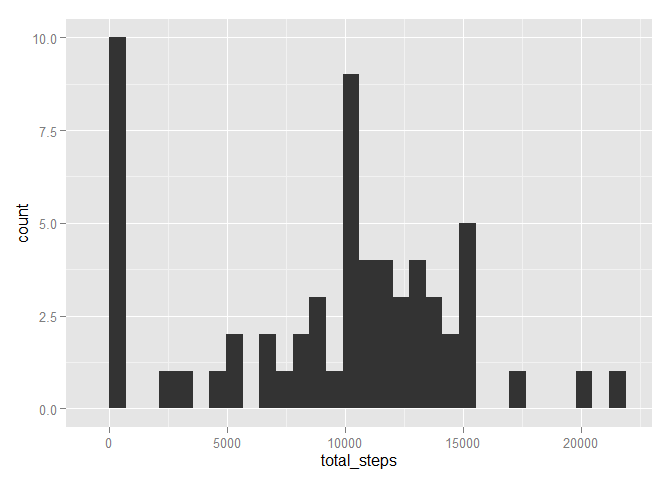
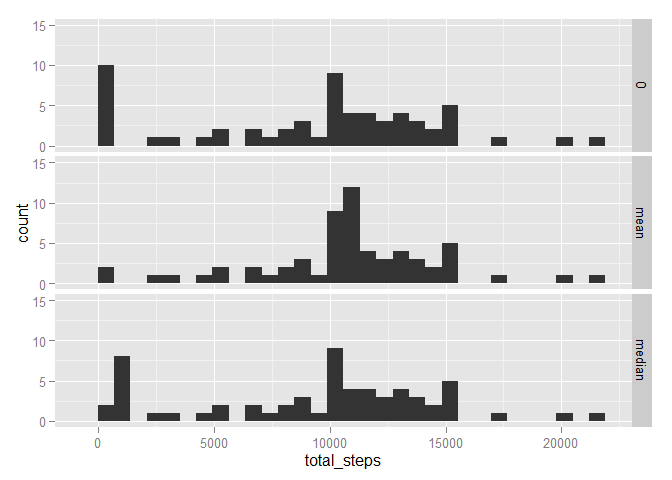
Document revisions
Extended the variety of approaches used to determine how to impute
values.

diff --git a/PA1_template.html b/PA1_template.html
@@ -72,9 +72,9 @@ library(dplyr)</code></pre>
 <pre><code>## 
 ## Attaching package: 'dplyr'
 ## 
-## The following object is masked from 'package:stats':
+## The following objects are masked from 'package:stats':
 ## 
-##     filter
+##     filter, lag
 ## 
 ## The following objects are masked from 'package:base':
 ## 
@@ -115,19 +115,55 @@ rows_with_nas</code></pre>
 <pre class="r"><code>missing_steps &lt;- sum(is.na(raw$steps))
 missing_steps</code></pre>
 <pre><code>## [1] 2304</code></pre>
-<p>There are 2304 NAs in the data and 100% of them occur in the steps column. My strategy to replace missing values is to write a zero in for every missing value.</p>
-<pre class="r"><code>noNAs &lt;- raw
+<p>There are 2304 NAs in the data and 100% of them occur in the steps column. In order to achieve the best imputation, I will trial three different approaches. The first approach will impute 0s for all NAs. The second approach will impute the interval mean. The third approach will impute the interval median. I will compare results from the three approaches to see which is best.</p>
+<pre class="r"><code>#first approach - just write a 0
+noNAs &lt;- raw
 missing_cases &lt;- which(is.na(noNAs$steps))
 noNAs[missing_cases,&quot;steps&quot;] &lt;- 0
-nby_date &lt;- group_by(noNAs,date)
+noNAs_0 &lt;- noNAs
+noNAs_0$method &lt;- 1
+
+#second approach - use the mean for that interval
+noNAs &lt;- raw
+missing_cases &lt;- which(is.na(noNAs$steps))
+x &lt;- NULL
+for (i in 1:length(missing_cases)){y &lt;- mean(raw[raw$interval == raw[missing_cases[i],&quot;interval&quot;], &quot;steps&quot;], na.rm = TRUE); x &lt;- c(x,y)}
+missing_cases &lt;- data.frame(cbind(missing_cases,x))
+names(missing_cases) &lt;- c(&quot;row&quot;,&quot;steps&quot;)
+noNAs[missing_cases$row,&quot;steps&quot;] &lt;- missing_cases$steps
+noNAs_mean &lt;- noNAs
+noNAs_mean$method &lt;- 2
+
+#third approach - use the median for that interval
+noNAs &lt;- raw
+missing_cases &lt;- which(is.na(noNAs$steps))
+x &lt;- NULL
+for (i in 1:length(missing_cases)){y &lt;- median(raw[raw$interval == raw[missing_cases[i],&quot;interval&quot;], &quot;steps&quot;], na.rm = TRUE); x &lt;- c(x,y)}
+missing_cases &lt;- data.frame(cbind(missing_cases,x))
+names(missing_cases) &lt;- c(&quot;row&quot;,&quot;steps&quot;)
+noNAs[missing_cases$row,&quot;steps&quot;] &lt;- missing_cases$steps
+noNAs_median &lt;- noNAs
+noNAs_median$method &lt;- 3
+
+noNAs &lt;-rbind(noNAs_0, noNAs_mean, noNAs_median)
+noNAs$method &lt;- as.factor(noNAs$method)
+levels(noNAs$method) &lt;- c(&quot;0&quot;, &quot;mean&quot;, &quot;median&quot;)
+
+nby_date &lt;- group_by(noNAs,date, method)
 nsteps_by_day &lt;- summarize(nby_date,total_steps = sum(steps))
-ggplot(nsteps_by_day, aes(total_steps)) + geom_histogram()</code></pre>
[1 lines of base64/hex data omitted]
-<pre class="r"><code>mean(nsteps_by_day$total_steps)</code></pre>
-<pre><code>## [1] 9354.23</code></pre>
-<pre class="r"><code>median(nsteps_by_day$total_steps)</code></pre>
-<pre><code>## [1] 10395</code></pre>
-<p>The impact of imputing zeros into the data set cause both the mean and the median to decline in value. Also, the mean became lower than the median, indicating the the data is left skewed.</p>
+ggplot(nsteps_by_day, aes(total_steps)) + geom_histogram() + ylim(0,15) + facet_grid(method~.)</code></pre>
[1 lines of base64/hex data omitted]
+<pre class="r"><code>m1 &lt;- mean(nsteps_by_day[nsteps_by_day$method == &quot;0&quot;,]$total_steps)
+m2 &lt;- mean(nsteps_by_day[nsteps_by_day$method == &quot;mean&quot;,]$total_steps)
+m3 &lt;- mean(nsteps_by_day[nsteps_by_day$method == &quot;median&quot;,]$total_steps)
+n1 &lt;- median(nsteps_by_day[nsteps_by_day$method == &quot;0&quot;,]$total_steps)
+n2 &lt;- median(nsteps_by_day[nsteps_by_day$method == &quot;mean&quot;,]$total_steps)
+n3 &lt;- median(nsteps_by_day[nsteps_by_day$method == &quot;median&quot;,]$total_steps)
+data.frame(zero = c(m1, n1), mean = c(m2, n2), median = c(m3, n3), row.names = c(&quot;mean&quot;, &quot;median&quot;))</code></pre>
+<pre><code>##            zero     mean    median
+## mean    9354.23 10766.19  9503.869
+## median 10395.00 10766.19 10395.000</code></pre>
+<p>The effect of using the three different approaches is to cause the NAs to have different imputed values. The approach using zero gives the lowest steps per day, then approach using median gives the second lowest steps per day and the approach using mean gives the highest steps per day. Based on this, I suspect that using the median to impute values may yield the best results.</p>
 </div>
 <div id="are-there-differences-in-activity-patterns-between-weekdays-and-weekends" class="section level2">
 <h2>Are there differences in activity patterns between weekdays and weekends?</h2>
@@ -138,7 +174,7 @@ noNAs[noNAs$day_of_week != &quot;Weekend day&quot;,&quot;day_of_week&quot;] &lt;
 nby_intervalday = group_by(noNAs,interval,day_of_week)
 navg_interval_by_day_of_week &lt;- summarize(nby_intervalday,daytypeavg = mean(steps))
 ggplot(navg_interval_by_day_of_week,aes(interval,daytypeavg)) + geom_line() + facet_wrap(~ day_of_week, nrow = 2)</code></pre>
[2 lines of base64/hex data omitted]
 <p>Weekend activity starts slower in the morning, although both week days and weekend days have a burst of activity between 8 and 9 am, although the weekend burst is lower than the weekday burst. During the bulk of the day, activity is erratic for both types of day, although the mean of the weekend activity appears to be higher than the week day activity.</p>
 </div>
 

diff --git a/PA1.html b/PA1.html
@@ -72,9 +72,9 @@ library(dplyr)</code></pre>
 <pre><code>## 
 ## Attaching package: 'dplyr'
 ## 
-## The following object is masked from 'package:stats':
+## The following objects are masked from 'package:stats':
 ## 
-##     filter
+##     filter, lag
 ## 
 ## The following objects are masked from 'package:base':
 ## 

diff --git a/PA1_template.md b/PA1_template.md
@@ -13,9 +13,9 @@ library(dplyr)
 ## 
 ## Attaching package: 'dplyr'
 ## 
-## The following object is masked from 'package:stats':
+## The following objects are masked from 'package:stats':
 ## 
-##     filter
+##     filter, lag
 ## 
 ## The following objects are masked from 'package:base':
 ## 
@@ -98,37 +98,67 @@ missing_steps
 ```
 ## [1] 2304
 ```
-There are 2304 NAs in the data and 100% of them occur in the steps column.   My strategy to replace missing values is to write a zero in for every missing value.
+There are 2304 NAs in the data and 100% of them occur in the steps column.   In order to achieve the best imputation, I will trial three different approaches.   The first approach will impute 0s for all NAs.   The second approach will impute the interval mean.   The third approach will impute the interval median.   I will compare results from the three approaches to see which is best.
 
 
 ```r
+#first approach - just write a 0
 noNAs <- raw
 missing_cases <- which(is.na(noNAs$steps))
 noNAs[missing_cases,"steps"] <- 0
-nby_date <- group_by(noNAs,date)
+noNAs_0 <- noNAs
+noNAs_0$method <- 1
+
+#second approach - use the mean for that interval
+noNAs <- raw
+missing_cases <- which(is.na(noNAs$steps))
+x <- NULL
+for (i in 1:length(missing_cases)){y <- mean(raw[raw$interval == raw[missing_cases[i],"interval"], "steps"], na.rm = TRUE); x <- c(x,y)}
+missing_cases <- data.frame(cbind(missing_cases,x))
+names(missing_cases) <- c("row","steps")
+noNAs[missing_cases$row,"steps"] <- missing_cases$steps
+noNAs_mean <- noNAs
+noNAs_mean$method <- 2
+
+#third approach - use the median for that interval
+noNAs <- raw
+missing_cases <- which(is.na(noNAs$steps))
+x <- NULL
+for (i in 1:length(missing_cases)){y <- median(raw[raw$interval == raw[missing_cases[i],"interval"], "steps"], na.rm = TRUE); x <- c(x,y)}
+missing_cases <- data.frame(cbind(missing_cases,x))
+names(missing_cases) <- c("row","steps")
+noNAs[missing_cases$row,"steps"] <- missing_cases$steps
+noNAs_median <- noNAs
+noNAs_median$method <- 3
+
+noNAs <-rbind(noNAs_0, noNAs_mean, noNAs_median)
+noNAs$method <- as.factor(noNAs$method)
+levels(noNAs$method) <- c("0", "mean", "median")
+
+nby_date <- group_by(noNAs,date, method)
 nsteps_by_day <- summarize(nby_date,total_steps = sum(steps))
-ggplot(nsteps_by_day, aes(total_steps)) + geom_histogram()
+ggplot(nsteps_by_day, aes(total_steps)) + geom_histogram() + ylim(0,15) + facet_grid(method~.)
 ```
 
 ![](PA1_template_files/figure-html/unnamed-chunk-6-1.png) 
 
 ```r
-mean(nsteps_by_day$total_steps)
+m1 <- mean(nsteps_by_day[nsteps_by_day$method == "0",]$total_steps)
+m2 <- mean(nsteps_by_day[nsteps_by_day$method == "mean",]$total_steps)
+m3 <- mean(nsteps_by_day[nsteps_by_day$method == "median",]$total_steps)
+n1 <- median(nsteps_by_day[nsteps_by_day$method == "0",]$total_steps)
+n2 <- median(nsteps_by_day[nsteps_by_day$method == "mean",]$total_steps)
+n3 <- median(nsteps_by_day[nsteps_by_day$method == "median",]$total_steps)
+data.frame(zero = c(m1, n1), mean = c(m2, n2), median = c(m3, n3), row.names = c("mean", "median"))
 ```
 
 ```
-## [1] 9354.23
+##            zero     mean    median
+## mean    9354.23 10766.19  9503.869
+## median 10395.00 10766.19 10395.000
 ```
 
-```r
-median(nsteps_by_day$total_steps)
-```
-
-```
-## [1] 10395
-```
-
-The impact of imputing zeros into the data set cause both the mean and the median to decline in value.   Also, the mean became lower than the median, indicating the the data is left skewed.
+The effect of using the three different approaches is to cause the NAs to have different imputed values.   The approach using zero gives the lowest steps per day, then approach using median gives the second lowest steps per day and the approach using mean gives the highest steps per day.   Based on this, I suspect that using the median to impute values may yield the best results.
 
 ## Are there differences in activity patterns between weekdays and weekends?
 

diff --git a/PA1.md b/PA1.md
@@ -13,9 +13,9 @@ library(dplyr)
 ## 
 ## Attaching package: 'dplyr'
 ## 
-## The following object is masked from 'package:stats':
+## The following objects are masked from 'package:stats':
 ## 
-##     filter
+##     filter, lag
 ## 
 ## The following objects are masked from 'package:base':
 ## 
